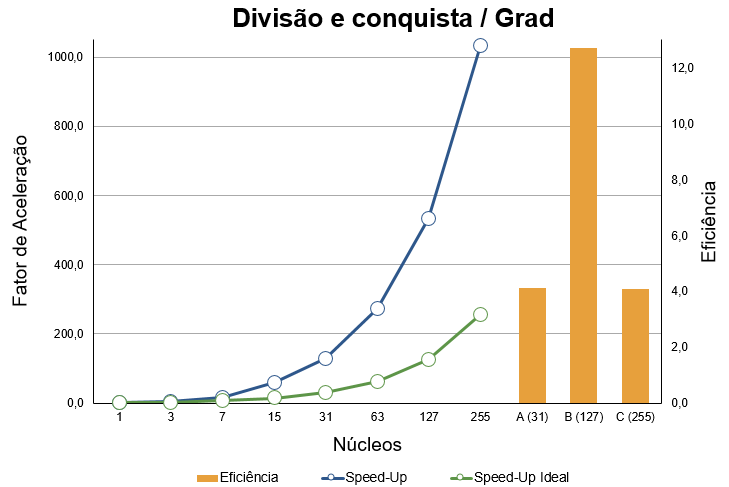
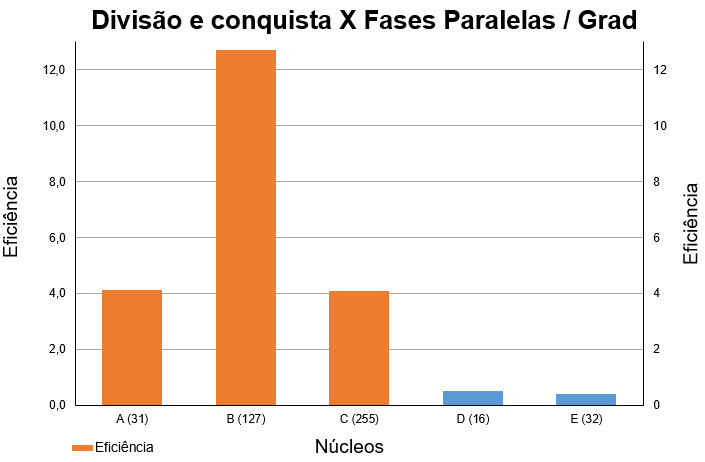
Novo relatorio

diff --git a/Trabalho5/relatorio/example.tex b/Trabalho5/relatorio/example.tex
@@ -42,7 +42,7 @@
 
 \setlength{\columnsep}{1cm}
 \setlength{\parindent}{0em}
-\titlespacing{\section}{1pt}{*-0.6}{*-1}
+\titlespacing{\section}{1pt}{*-0.55}{*-0.8}
 \begin{document}
 
 \textbf{Relatório de Entrega de Trabalho} \newline
@@ -53,23 +53,23 @@
 \begin{multicols*}{2}
 
 \section{Implementação}
-O objetivo deste trabalho foi implementar usando a biblioteca MPI um algoritmo seguindo o modelo de fases paralelas para ordenar um vetor de 1000000 de elementos usando bubblesort. Cada processo recebe uma parte igual do vetor e a ordena localmente, verificando se o mesmo está ordenado em relação aos processos vizinhos e, se não está, realiza-se trocas de seus elementos visando a ordenação completa do vetor. Os processos seguem a ordem de seus respectivos índices, de 0 até np-1, a implementação se inicia com cada vetor local sendo criado dentro do seu respectivo processo, o vetor é inicializado em ordem decrescente (pior caso) e um vetor auxiliar (vet\_pronto) é criado para armazenar o estado de todos os processos, cada posição corresponde ao seu índice, com valores '1' se o vetor local daquele processo está ordenado, e '0' quando não está. Os vetores são ordenados usando bubblesort e compara-se o maior valor do vetor, com o menor valor do vetor do processo a sua direita, se o dado enviado for menor, o vetor está ordenado em relação ao seu vizinho, atualizando o vet\_pronto com seu índice. Através da função MPI\_Bcast, é feita a atualização dos vet\_pronto de todos os processos, conferindo se é o fim da execução (todas as posições em '1'). A troca de elementos é realizada através de posições auxiliares nos vetores locais, fixou-se o tamanho o número de elementos da troca em 1,5\% do total (1000000), cada processo (exceto o 0) envia essa quantidade de seus menores valores para o vizinho à esquerda, o qual recebe e ordena esses elementos com a mesma quantidade de seus maiores valores, devolvendo para o processo que enviou os maiores elementos da ordenação. Essa sequencia é executada por todos os processos, até haver a ordem completa do vetor.
+O objetivo deste trabalho foi implementar usando a biblioteca MPI um algoritmo seguindo o modelo de fases paralelas para ordenar um vetor de 1000000 de elementos usando bubblesort. Cada processo recebe uma parte igual do vetor e a ordena localmente, verificando se o mesmo está ordenado em relação aos processos vizinhos e, se não está, realiza-se trocas de seus elementos visando a ordenação completa do vetor. Os processos seguem a ordem de seus respectivos índices, em uma lista da esquerda para a direita de 0 até np-1, a implementação se inicia com cada vetor local sendo criado dentro do seu respectivo processo e recebendo 1/(np-1) avos do tamanho total, o vetor é inicializado em ordem decrescente (pior caso) e um vetor auxiliar (vet\_pronto) é criado para armazenar o estado de todos os processos, cada posição corresponde ao seu índice, com valores '1' se o vetor local daquele processo está ordenado, e '0' quando não está. Os vetores são ordenados usando bubblesort e compara-se o maior valor do vetor, com o menor valor do vetor do processo a sua direita (para todos, menos para o processo 0, que só envia o elemento), se o dado enviado for menor, o vetor está ordenado em relação ao seu vizinho, atualizando o vet\_pronto com seu respectivo índice para '1'. Através da função MPI\_Bcast, é feita a atualização dos vet\_pronto de todos os processos, conferindo se é o fim da execução (todas as posições em '1'). A troca de elementos é realizada através de posições auxiliares nos vetores locais, fixou-se o tamanho do número de elementos da troca em 1,5\% do total (1000000), cada processo (exceto o 0) envia essa quantidade de seus menores valores para o vizinho à esquerda, o qual recebe e ordena esses elementos com a mesma quantidade de seus maiores valores, devolvendo para o processo que enviou os maiores elementos após essa ordenação. O algoritmo retorna para a etapa de ordenação do vetor completo, percorrendo novamente o algoritmo, todos os processos executam o mesmo código, até haver a ordem completa dos vetores.
 \section{Dificuldades encontradas}
-Uso correto da função MPI\_Bcast, de maneira a manter o sincronismo do vetor pronto; Desenvolvimento da inicialização dos vetores localmente, visto que tentou-se criar um único vetor total e dividi-lo entre os processos; Escolha da melhor quantidade de elementos a serem trocados entre os vetores de modo a convergir de maneira mais rápida para a solução desejada.  
+Uso correto da função MPI\_Bcast, de maneira a manter o sincronismo do vetor pronto; Desenvolvimento da inicialização dos vetores localmente, visto que, no inicio, tentou-se criar um único vetor total e dividi-lo entre os processos, não obtendo sucesso; Escolha da melhor quantidade de elementos a serem trocados entre os vetores de modo a convergir de maneira mais rápida para a solução desejada.  
 \section{Testes}
-
+Foram realizados testes com alocação de 2 nodos na grad, executando o código para 16 e 32 processos, em ambos os casos, testou-se para diferentes quantidades de elementos sendo trocados entre os processos, visando obter o melhor resultado possível. A primeira execução foi realizada com 0.25\% do tamanho total do vetor (1000000), a cada novo teste, aumentou-se esse valor em 0.25\%, percebendo que após 1.5\% o tempo de execução não aumentava, e para valores muito maiores, o algoritmo sequer convergia para a solução requisitada, ao final dos testes, o melhor resultado obtido foi 553.4 segundos para 16 processos e 358.3 segundos para 32 (HT).
 \section{Análise de desempenho}
-
+A versão paralela do algoritmo melhorou o resultado em comparação com a execução sequencial, obtendo menores tempos de execução, todavia a eficiência ficou abaixo do ideal, para ambos os números de processos, atingindo 0.5 de eficiência (D) para 16 processos e 0.4 para 32 (E). O speed-up obtido também foi abaixo do ideal, 8 para 16 processos e 12.4 para 32. Em comparação com o algoritmo de divisão e conquista (D\&C) do trabalho anterior, o resultado do fases paralelas foi muito inferior, como pode ser visto na Figura 1, as barras A, B e C correspondem a eficiência das três execuções do algoritmo divisão e conquista, código até o HT, ordenamento local e código padrão após o HT, respectivamente, demonstrando a grande diferença de performance em comparação a ordenação do fases paralelas, isto ocorre pois o algoritmo desse trabalho não é projetado para solucionar esse tipo de problema, gastando muito mais tempo ordenando do que realizando a comunicação, demorando para convergir.  
 \begin{figure}[H]
             \centering
             \vspace{-1.1em}
-            \includegraphics[width=9cm, height=4cm]{grafico.png}
+            \includegraphics[width=9cm, height=5cm]{Capture.PNG}
             \vspace{-1.9em}
-            \caption{Gráfico de Speed-up (A e C) e eficiência dos 3 casos}
+            \caption{Gráfico de eficiência comparando D\&C(A,B,C) com FP(D,E)}
             \vspace{-1.2em}
 \end{figure}
 \section{Observações Finais}
-
+A utilização do algoritmo de fases paralelas se mostrou mais eficiente que a execução sequencial, como era esperado, porém, não foi o melhor algoritmo visto no decorrer da disciplina, ficando atrás dos outros dois processamentos paralelos abordados em aula, o mestre-escravo e o divisão e conquista. Obteve-se resultados razoáveis de speed-up e eficiência, entretanto também foram inferiores aos valores obtidos na execução dos outros algoritmos vistos. É importante analisar a diferença nos tempos medidos para as alterações da quantidade de elementos trocados entre os vetores para realizar a ordenação de maneira correta, sendo este o aspecto mais intrínseco do algoritmo.
 
 \end{multicols*}
 
